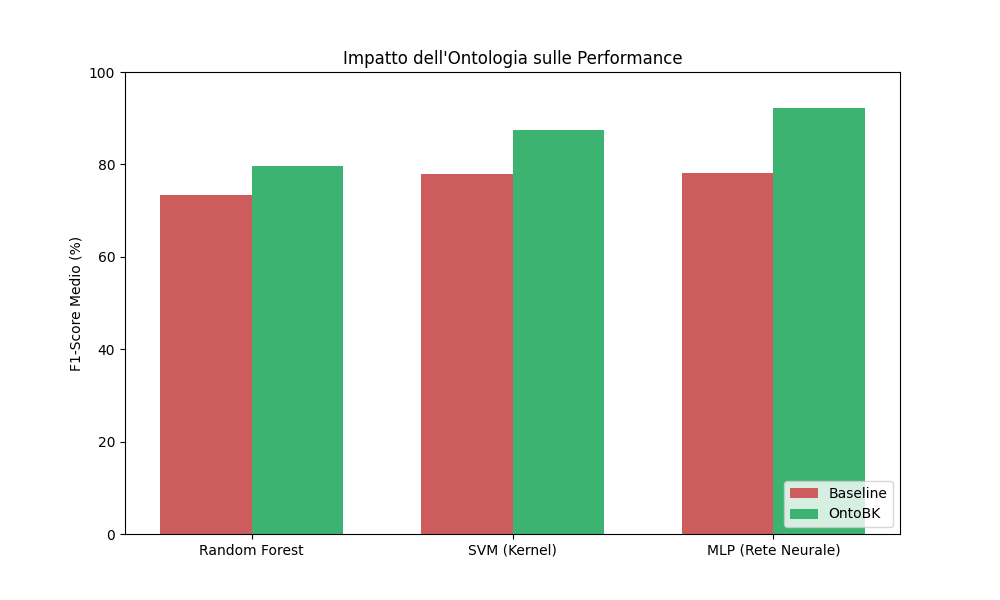
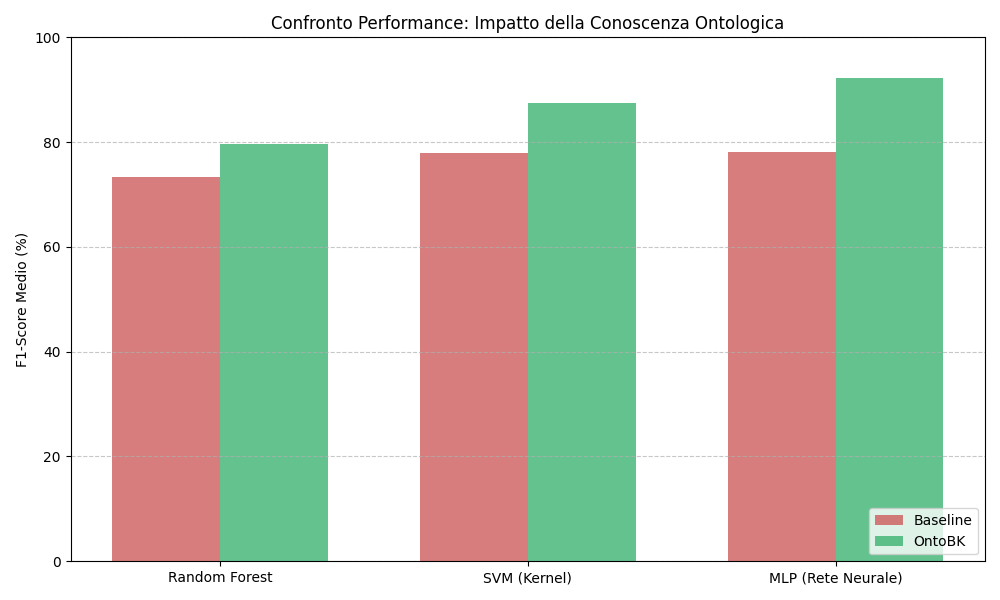
Sistemato codice per apprendimento supervisionato, aggiunti blocchi di codice che permettono di generare grafici per le curve di apprendimento dei vari modelli utilizzati.

diff --git a/src/apprendimento_supervisionato.py b/src/apprendimento_supervisionato.py
@@ -9,6 +9,7 @@ from sklearn.svm import SVC
 from sklearn.neural_network import MLPClassifier
 from sklearn.pipeline import Pipeline
 from sklearn.metrics import make_scorer, accuracy_score, precision_score, recall_score, f1_score
+from sklearn.model_selection import learning_curve
 import warnings
 
 warnings.filterwarnings("ignore")
@@ -84,8 +85,10 @@ def run_ml_evaluation(X, y, phase_title, results_dict, phase_key):
 
 # Funzione che genera visualizzazioni grafiche per il confronto tra Baseline e OntoBK (F1-Score).
 def generate_plots(results_dict, X_enriched, y, features_enriched, graphics_dir):
-    print("\nGenerazione grafici in corso...")
 
+    print("\nGenerazione grafici di validazione in corso...")
+
+    # GRAFICO COMPARATIVO PERFORMANCE
     modelli_nomi = list(results_dict['Baseline'].keys())
     f1_base = [results_dict['Baseline'][m] for m in modelli_nomi]
     f1_onto = [results_dict['OntoBK'][m] for m in modelli_nomi]
@@ -93,27 +96,68 @@ def generate_plots(results_dict, X_enriched, y, features_enriched, graphics_dir)
     x = np.arange(len(modelli_nomi))
     width = 0.35
     fig, ax = plt.subplots(figsize=(10, 6))
-    ax.bar(x - width / 2, f1_base, width, label='Baseline', color='indianred')
-    ax.bar(x + width / 2, f1_onto, width, label='OntoBK', color='mediumseagreen')
+    ax.bar(x - width / 2, f1_base, width, label='Baseline', color='indianred', alpha=0.8)
+    ax.bar(x + width / 2, f1_onto, width, label='OntoBK', color='mediumseagreen', alpha=0.8)
 
     ax.set_ylabel('F1-Score Medio (%)')
-    ax.set_title('Impatto dell\'Ontologia sulle Performance')
+    ax.set_title('Confronto Performance: Impatto della Conoscenza Ontologica')
     ax.set_xticks(x)
     ax.set_xticklabels(modelli_nomi)
     ax.legend(loc='lower right')
     ax.set_ylim(0, 100)
-    plt.savefig(os.path.join(graphics_dir, 'confronto_performance.png'))
-
-    rf = RandomForestClassifier(n_estimators=100, random_state=42)
-    rf.fit(X_enriched, y)
-
-    feat_df = pd.DataFrame({'Feature': features_enriched, 'Importanza': rf.feature_importances_})
-    feat_df = feat_df.sort_values(by='Importanza', ascending=True).tail(10)
-
-    plt.figure(figsize=(10, 6))
-    plt.barh(feat_df['Feature'], feat_df['Importanza'], color='cornflowerblue')
-    plt.title('Top 10 Feature più importanti (Random Forest)')
+    ax.grid(axis='y', linestyle='--', alpha=0.7)
     plt.tight_layout()
-    plt.savefig(os.path.join(graphics_dir, 'feature_importance.png'))
+    plt.savefig(os.path.join(graphics_dir, 'confronto_performance.png'))
+    plt.close()  # Chiudiamo la figura per non sovrapporre i grafici successivi
 
-    print("Grafici salvati nella cartella 'graphics'.")
+    # GENERAZIONE LEARNING CURVES
+    print("  Elaborazione Learning Curves diagnostiche...")
+
+    scaler = StandardScaler()
+    X_scaled = scaler.fit_transform(X_enriched)
+
+    models_to_analyze = {
+        "Random Forest": RandomForestClassifier(n_estimators=100, random_state=42),
+        "SVM (Kernel)": SVC(C=1, kernel='rbf', random_state=42),
+        "MLP (Rete Neurale)": MLPClassifier(hidden_layer_sizes=(100,), max_iter=500, random_state=42)
+    }
+
+
+    train_sizes = np.linspace(0.1, 1.0, 5)
+
+    for name, model in models_to_analyze.items():
+        print(f"     Calcolo curva per {name}...")
+
+        # Calcoliamo la learning curve usando F1-macro
+        # cv=5 esegue una cross-validation interna per mediare i risultati
+        train_sizes_abs, train_scores, test_scores = learning_curve(
+            model, X_scaled, y, cv=5, n_jobs=-1, train_sizes=train_sizes, scoring='f1_macro'
+        )
+
+        train_scores_mean = np.mean(train_scores, axis=1)
+        train_scores_std = np.std(train_scores, axis=1)
+        test_scores_mean = np.mean(test_scores, axis=1)
+        test_scores_std = np.std(test_scores, axis=1)
+
+
+        plt.figure(figsize=(8, 5))
+        plt.title(f"Diagnosi Modello: Learning Curve ({name})")
+        plt.xlabel("Campioni di Addestramento")
+        plt.ylabel("F1-Score (Macro)")
+        plt.grid(True, alpha=0.3)
+
+        plt.fill_between(train_sizes_abs, train_scores_mean - train_scores_std,
+                         train_scores_mean + train_scores_std, alpha=0.1, color="firebrick")
+        plt.fill_between(train_sizes_abs, test_scores_mean - test_scores_std,
+                         test_scores_mean + test_scores_std, alpha=0.1, color="forestgreen")
+
+        plt.plot(train_sizes_abs, train_scores_mean, 'o-', color="firebrick", label="Training score")
+        plt.plot(train_sizes_abs, test_scores_mean, 'o-', color="forestgreen", label="Cross-validation score")
+
+        plt.legend(loc="lower right")
+
+        filename = f'learning_curve_{name.replace(" ", "_").lower()}.png'
+        plt.savefig(os.path.join(graphics_dir, filename))
+        plt.close()
+
+    print(f"Operazione completata. Grafici salvati in: '{graphics_dir}'.")
